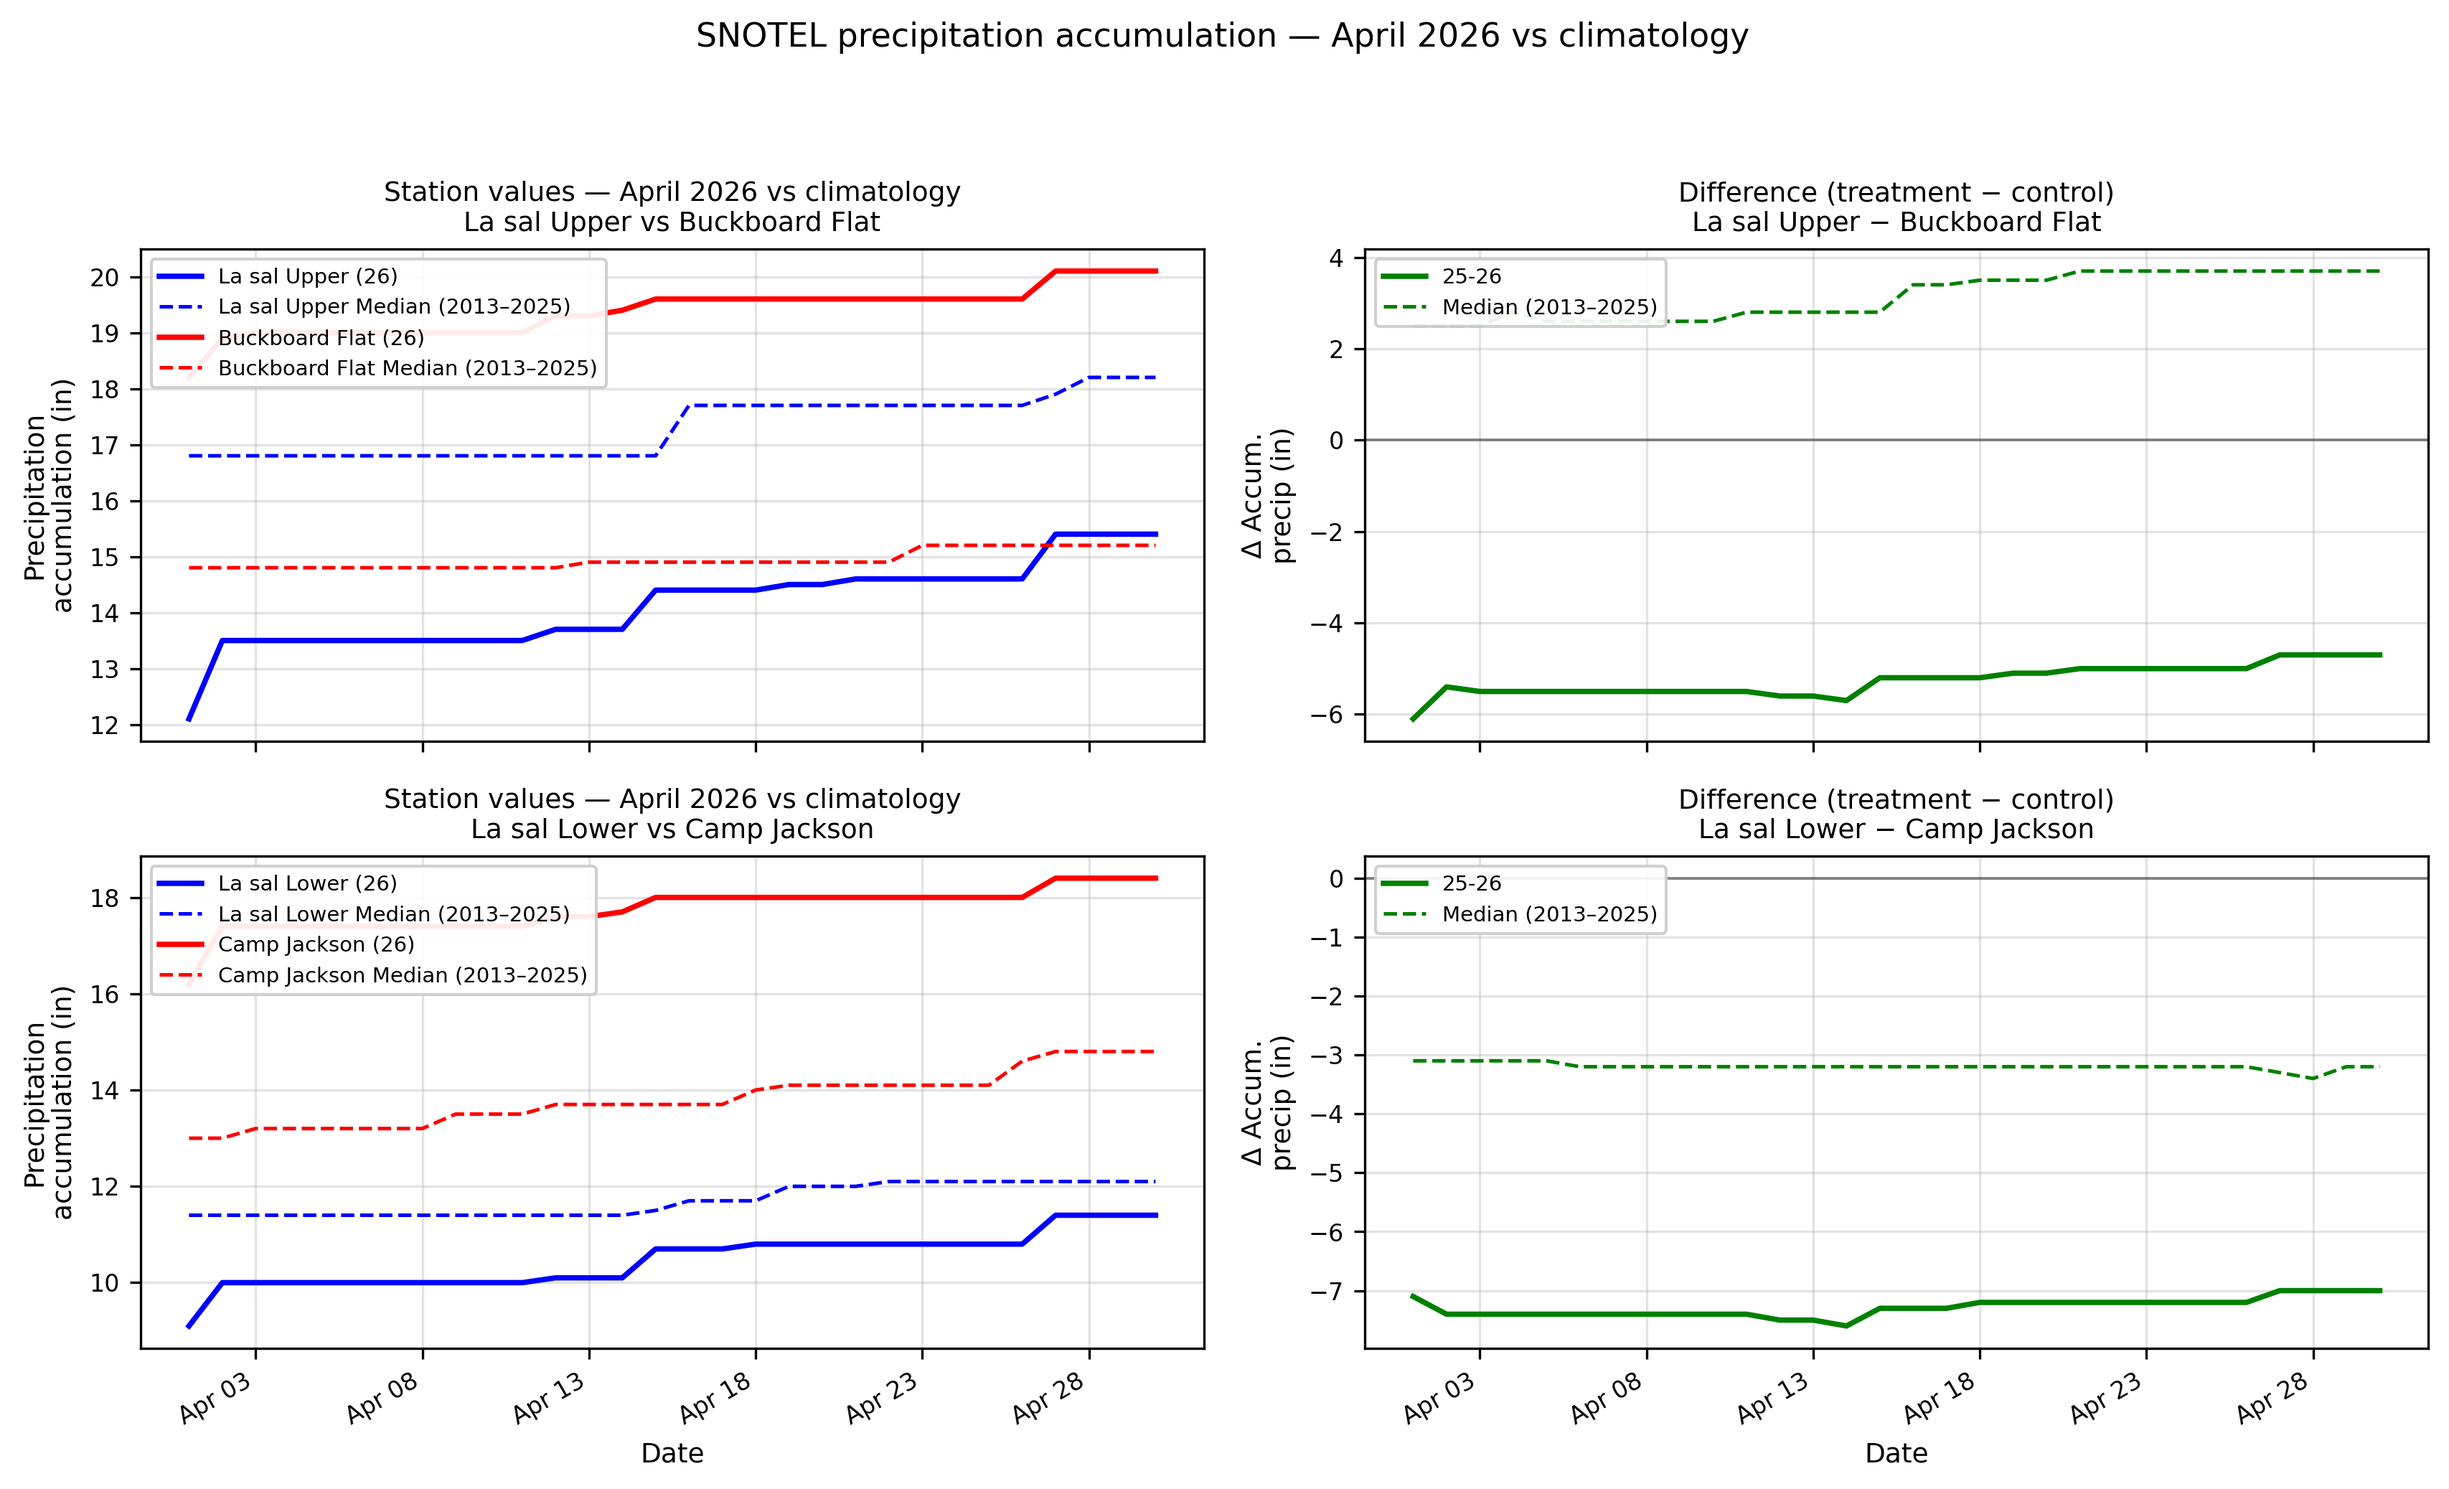
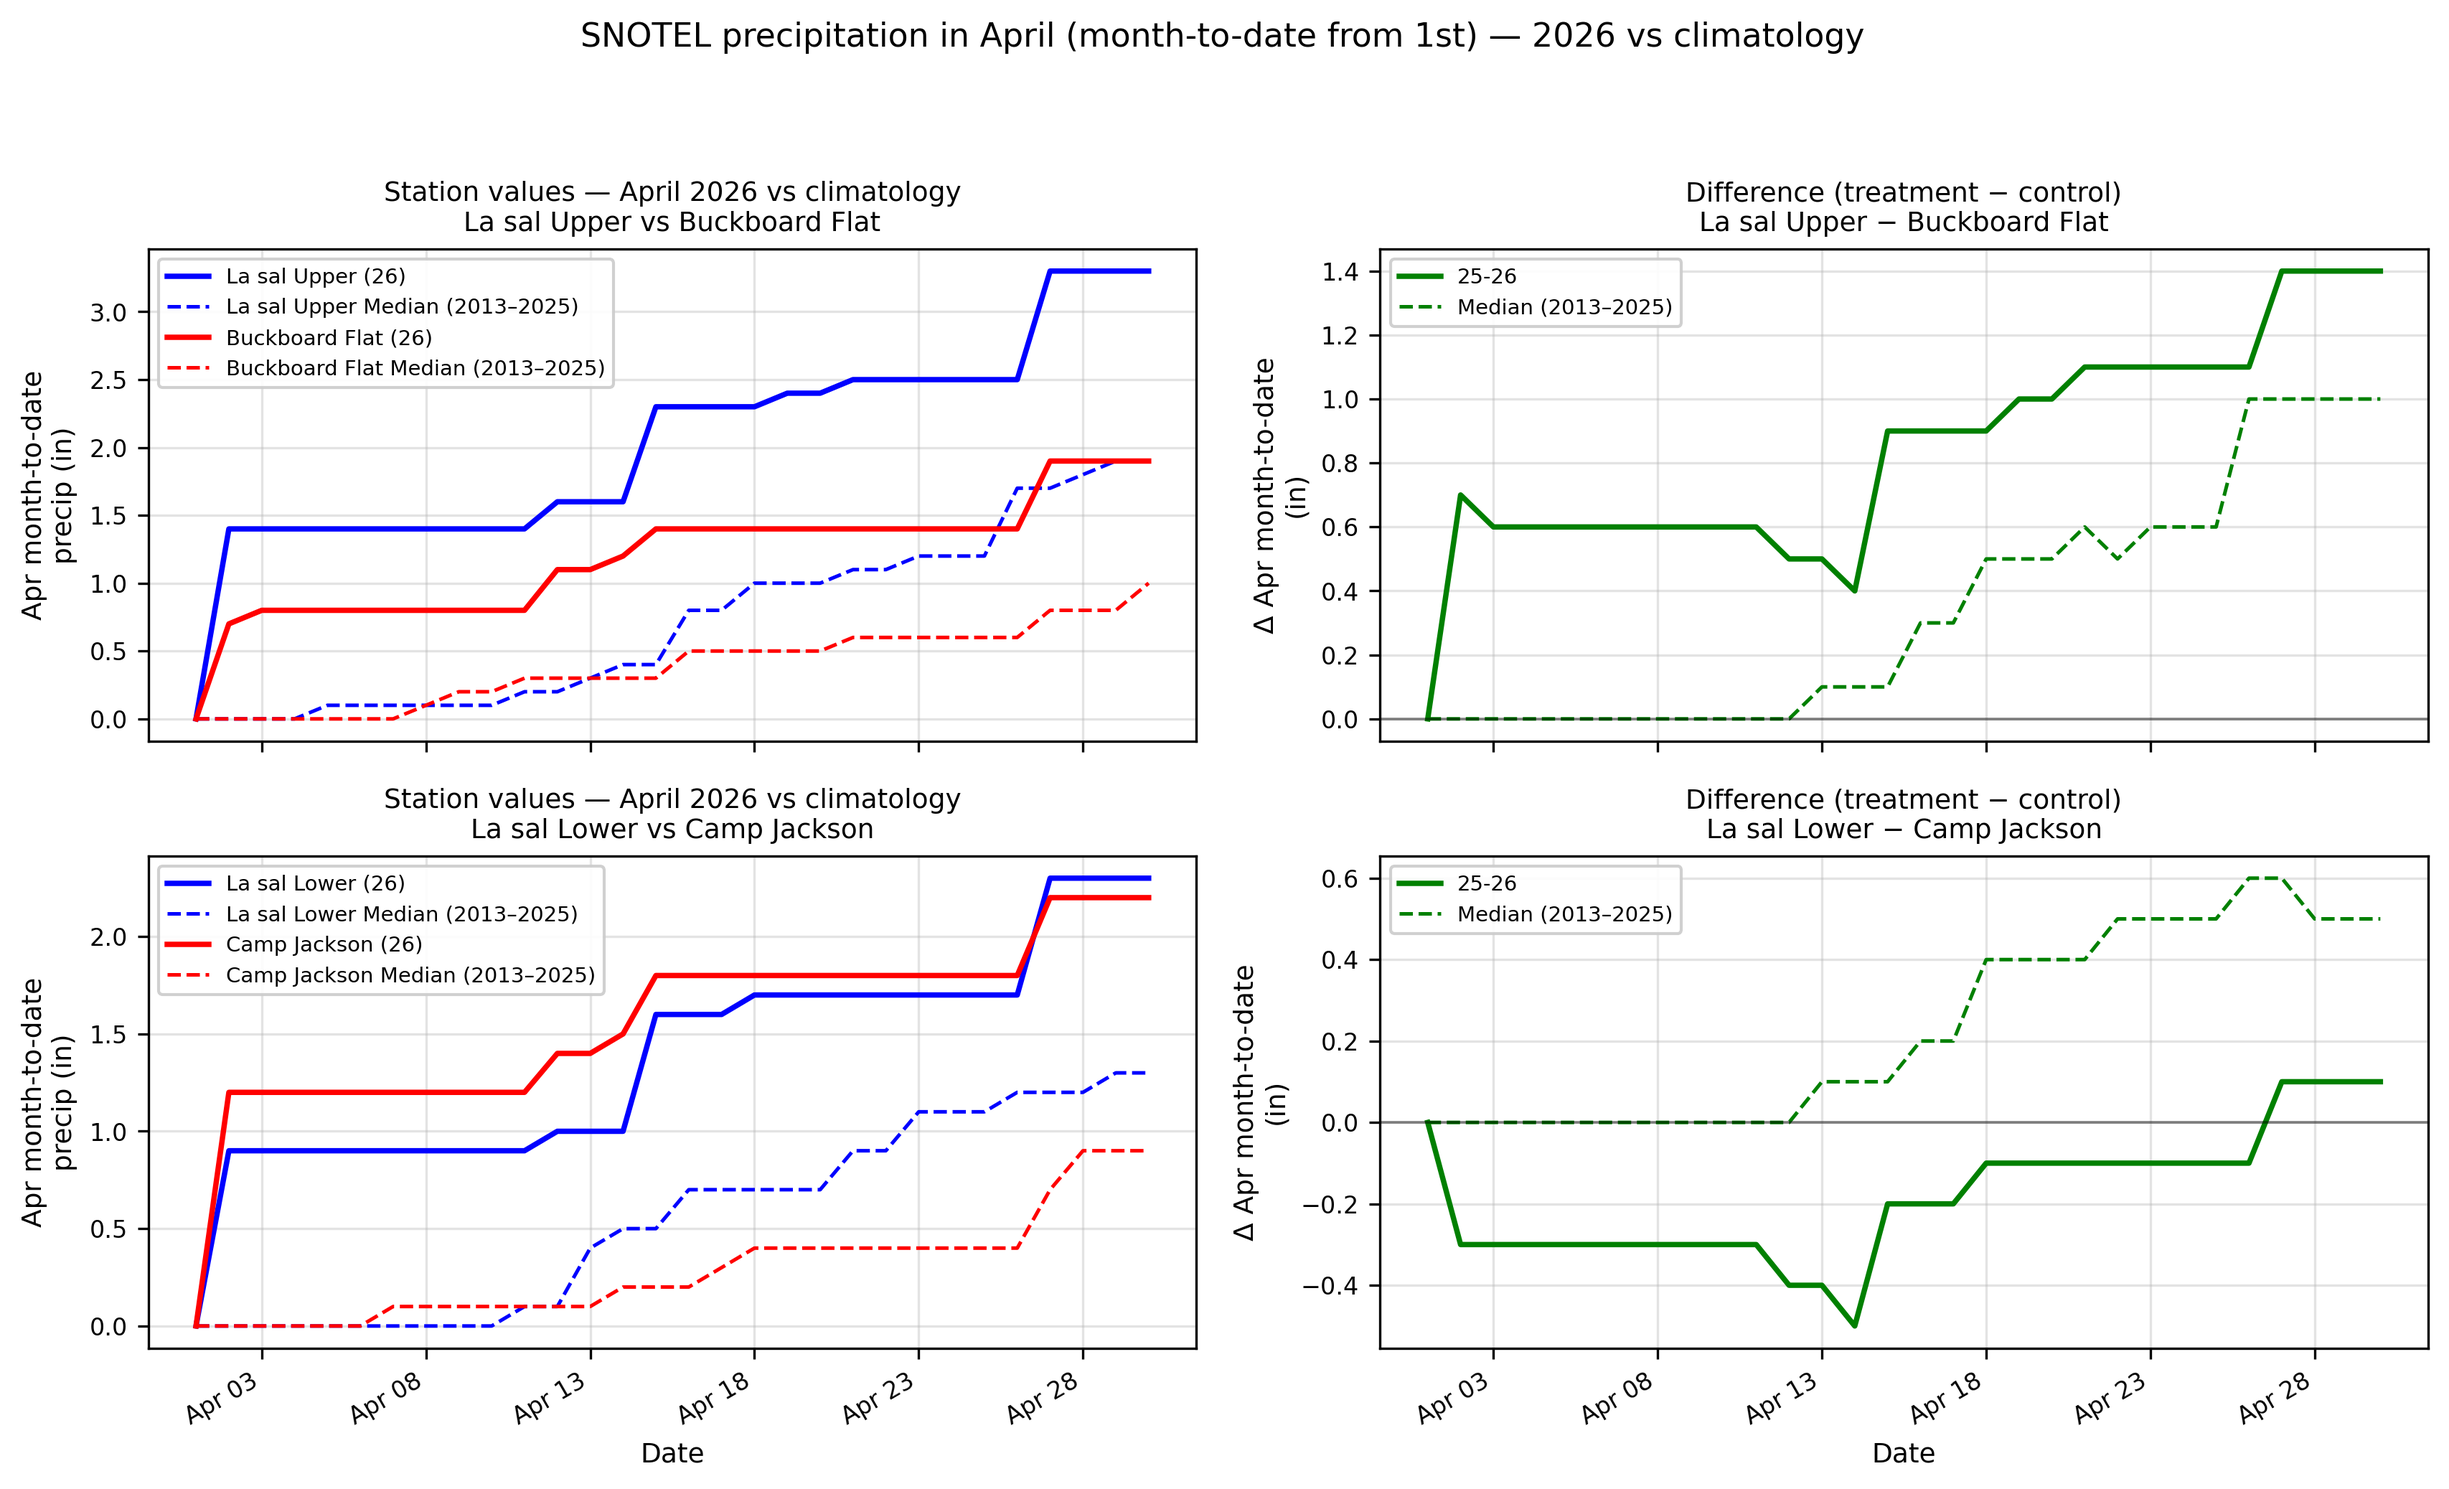
Align precip time series with boxplot: month-to-date from 1st.
Plot anchored accum(end of day) minus accum(1st) so April endpoint matches monthly totals; update figure caption to reference boxplot fig. Regenerate PrecipAccum_DailyVsClimatology PNG.

diff --git a/scripts/plot_generators.py b/scripts/plot_generators.py
@@ -675,11 +675,11 @@ def plot_precip_accum_timeseries_vs_climatology(
     output_file=None,
 ):
     """
-    Daily SNOTEL precipitation accumulation (cumulative gauge, inches) for the
-    report calendar month: solid lines = report year at treatment and control;
-    dashed = day-of-month median across climatology years. Right column: daily
-    treatment minus control vs median of that difference (same style as SWE
-    comparison figures).
+    Daily **month-to-date** precipitation (in) for the report calendar month,
+    anchored to the 1st of the month: each day shows SNOTEL accumulation that
+    day minus accumulation on the 1st (same as the boxplot's monthly total when
+    evaluated on the last day). Solid = report year; dashed = day-of-month median
+    across climatology years. Right column: treatment minus control.
     """
     if pairs is None:
         pairs = [
@@ -711,8 +711,16 @@ def plot_precip_accum_timeseries_vs_climatology(
             return np.nan
         return float(ser.get(ts.normalize(), np.nan))
 
-    def median_across_years(ser, m, dom):
-        vals = [value_on(ser, y, m, dom) for y in clim_years]
+    def anchored_on(ser, y, m, dom):
+        """Precip within month through day `dom`: accum(dom) - accum(1st)."""
+        v0 = value_on(ser, y, m, 1)
+        v1 = value_on(ser, y, m, dom)
+        if not (np.isfinite(v0) and np.isfinite(v1)):
+            return np.nan
+        return float(v1 - v0)
+
+    def median_anchored(ser, m, dom):
+        vals = [anchored_on(ser, y, m, dom) for y in clim_years]
         vals = [v for v in vals if np.isfinite(v)]
         if not vals:
             return np.nan
@@ -735,10 +743,10 @@ def plot_precip_accum_timeseries_vs_climatology(
 
         x_num = mdates.date2num(report_dates.to_pydatetime())
 
-        v_t_cur = np.array([value_on(ser_t, year, month, d.day) for d in report_dates])
-        v_c_cur = np.array([value_on(ser_c, year, month, d.day) for d in report_dates])
-        v_t_med = np.array([median_across_years(ser_t, month, d.day) for d in report_dates])
-        v_c_med = np.array([median_across_years(ser_c, month, d.day) for d in report_dates])
+        v_t_cur = np.array([anchored_on(ser_t, year, month, d.day) for d in report_dates])
+        v_c_cur = np.array([anchored_on(ser_c, year, month, d.day) for d in report_dates])
+        v_t_med = np.array([median_anchored(ser_t, month, d.day) for d in report_dates])
+        v_c_med = np.array([median_anchored(ser_c, month, d.day) for d in report_dates])
 
         lab_t = STATION_DISPLAY_NAMES.get(treat, treat)
         lab_c = STATION_DISPLAY_NAMES.get(ctrl, ctrl)
@@ -748,7 +756,7 @@ def plot_precip_accum_timeseries_vs_climatology(
         ax_l.plot(x_num, v_c_cur, "r-", linewidth=1.8, label=f"{lab_c} ({str(year)[-2:]})")
         ax_l.plot(x_num, v_c_med, "r--", linewidth=1.2, label=f"{lab_c} {clim_label}")
 
-        ax_l.set_ylabel("Precipitation\naccumulation (in)", fontsize=9)
+        ax_l.set_ylabel(f"{month_name[:3]} month-to-date\nprecip (in)", fontsize=9)
         ax_l.grid(True, alpha=0.35)
         ax_l.legend(loc="upper left", fontsize=7, framealpha=0.92)
         ax_l.set_title(
@@ -761,8 +769,8 @@ def plot_precip_accum_timeseries_vs_climatology(
         for d in report_dates:
             diffs = []
             for y in clim_years:
-                a = value_on(ser_t, y, month, d.day)
-                b = value_on(ser_c, y, month, d.day)
+                a = anchored_on(ser_t, y, month, d.day)
+                b = anchored_on(ser_c, y, month, d.day)
                 if np.isfinite(a) and np.isfinite(b):
                     diffs.append(a - b)
             d_med_list.append(float(np.nanmedian(diffs)) if diffs else np.nan)
@@ -771,7 +779,7 @@ def plot_precip_accum_timeseries_vs_climatology(
         ax_r.plot(x_num, d_cur, "g-", linewidth=1.8, label=wy_short)
         ax_r.plot(x_num, d_med, "g--", linewidth=1.2, label=clim_label)
         ax_r.axhline(0.0, color="black", linewidth=0.9, linestyle="-", alpha=0.45)
-        ax_r.set_ylabel("Δ Accum.\nprecip (in)", fontsize=9)
+        ax_r.set_ylabel(f"Δ {month_name[:3]} month-to-date\n(in)", fontsize=9)
         ax_r.grid(True, alpha=0.35)
         ax_r.legend(loc="upper left", fontsize=7, framealpha=0.92)
         ax_r.set_title(
@@ -789,7 +797,7 @@ def plot_precip_accum_timeseries_vs_climatology(
     axes[-1, 1].set_xlabel("Date", fontsize=9)
 
     fig.suptitle(
-        f"SNOTEL precipitation accumulation — {month_name} {year} vs climatology",
+        f"SNOTEL precipitation in {month_name} (month-to-date from 1st) — {year} vs climatology",
         fontsize=11,
         y=1.01,
     )

diff --git a/main.tex b/main.tex
@@ -268,7 +268,7 @@ Snow pack enhancement was evident in the target area. The nearby Abajo mountains
 \begin{figure}[h!]
   \centering
   \includegraphics[width=\textwidth]{plots/202604_PrecipAccum_DailyVsClimatology.png}
-  \caption{Daily SNOTEL precipitation accumulation (cumulative gauge, inches) during the report month at each treatment site compared to Buckboard Flat or Camp Jackson (left), and treatment minus control (right). Solid lines are April 2026; dashed lines are the day-of-month median across years 2013--2025. Vertical scale is the running accumulation since the start of the water year, not April-only totals.}
+  \caption{Month-to-date precipitation within the report month (inches): each day's SNOTEL accumulation minus the value on the first day of that month, so the level on the last day matches the monthly total used in Fig.~\ref{fig:precip_month_clim}. Left: treatment vs control (solid = April 2026; dashed = day-of-month median across 2013--2025). Right: treatment minus control.}
   \label{fig:precip_accum_daily}
 \end{figure}
 
